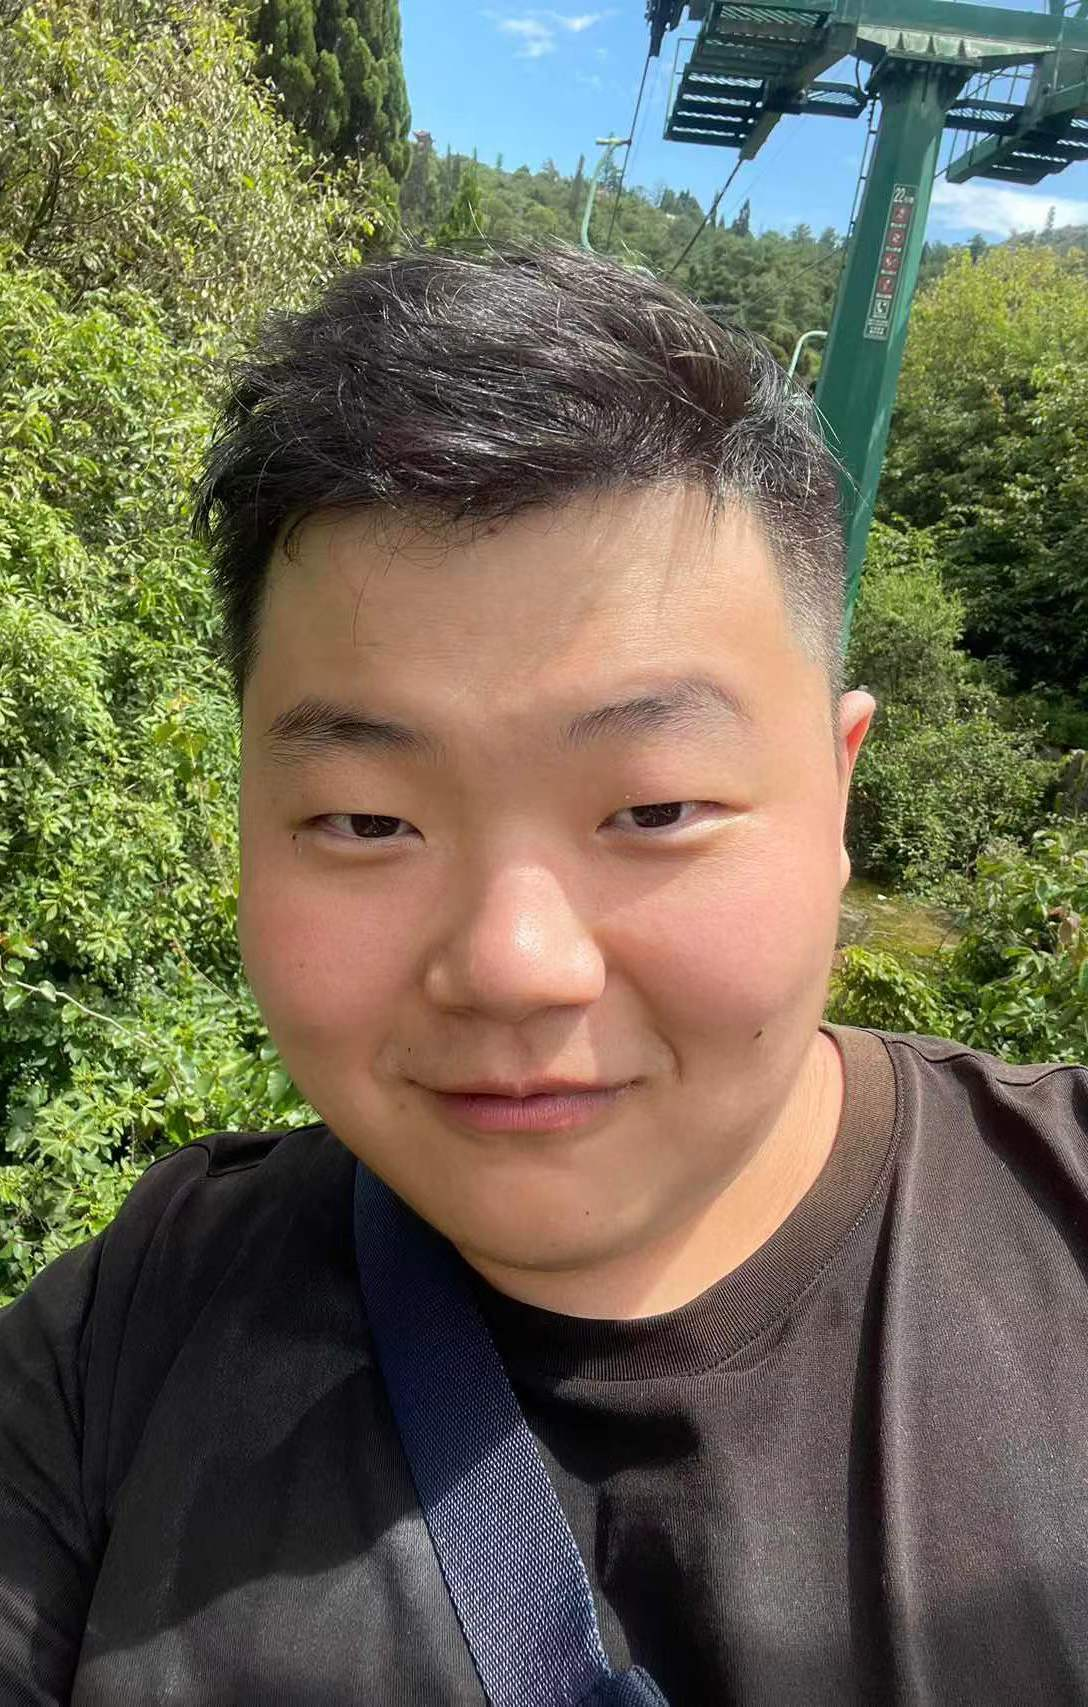
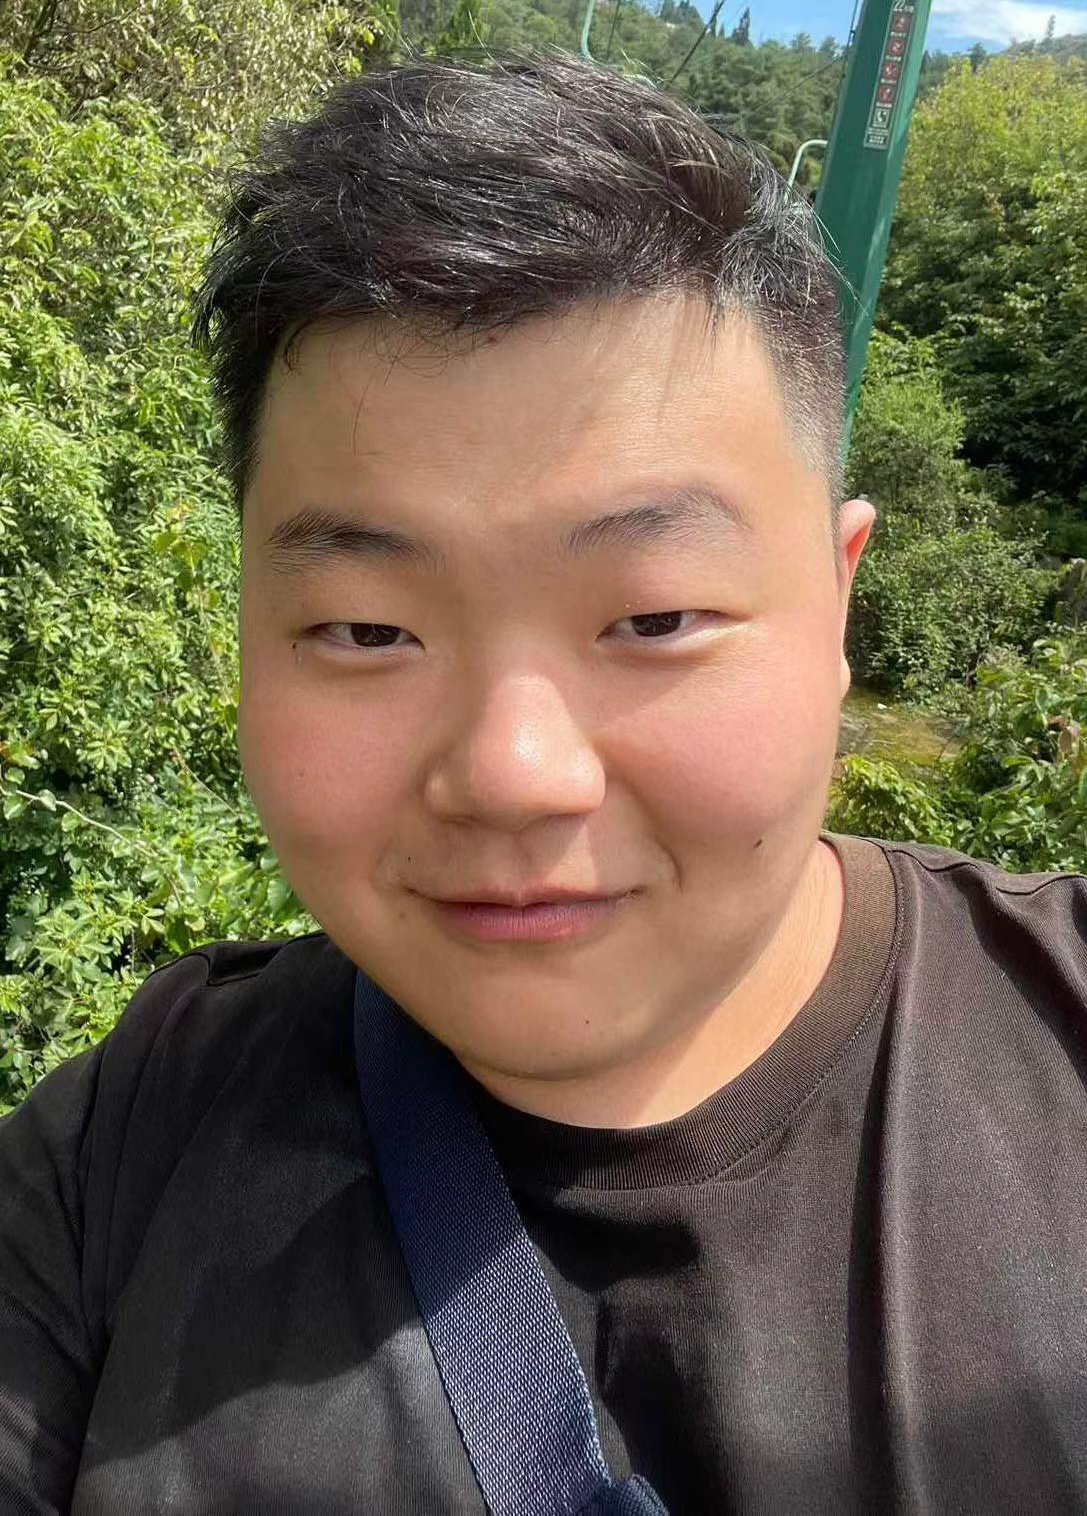
final

diff --git a/index.html b/index.html
@@ -52,7 +52,7 @@
                 </td>
                 <td style="padding:2.5%;width:37%;max-width:37%;vertical-align:middle">
                   <a href="/img/zihan.jpg">
-                    <img style="width:100%;max-width:100%;border-radius:8px;display:block;margin:0 auto;" alt="Zihan Wang" src="/img/zihan.jpg">
+                    <img class="profile-photo" alt="Zihan Wang" src="/img/zihan.jpg">
                   </a>
                 </td>
               </tr>

diff --git a/files/stylesheet.css b/files/stylesheet.css
@@ -172,3 +172,12 @@ span.badge {
 a.pub-link {
   font-weight: 500;
 }
+
+.profile-photo {
+  width: 100%;
+  max-width: 320px;
+  height: auto;
+  display: block;
+  margin: 0 auto;
+  border-radius: 8px;
+}
